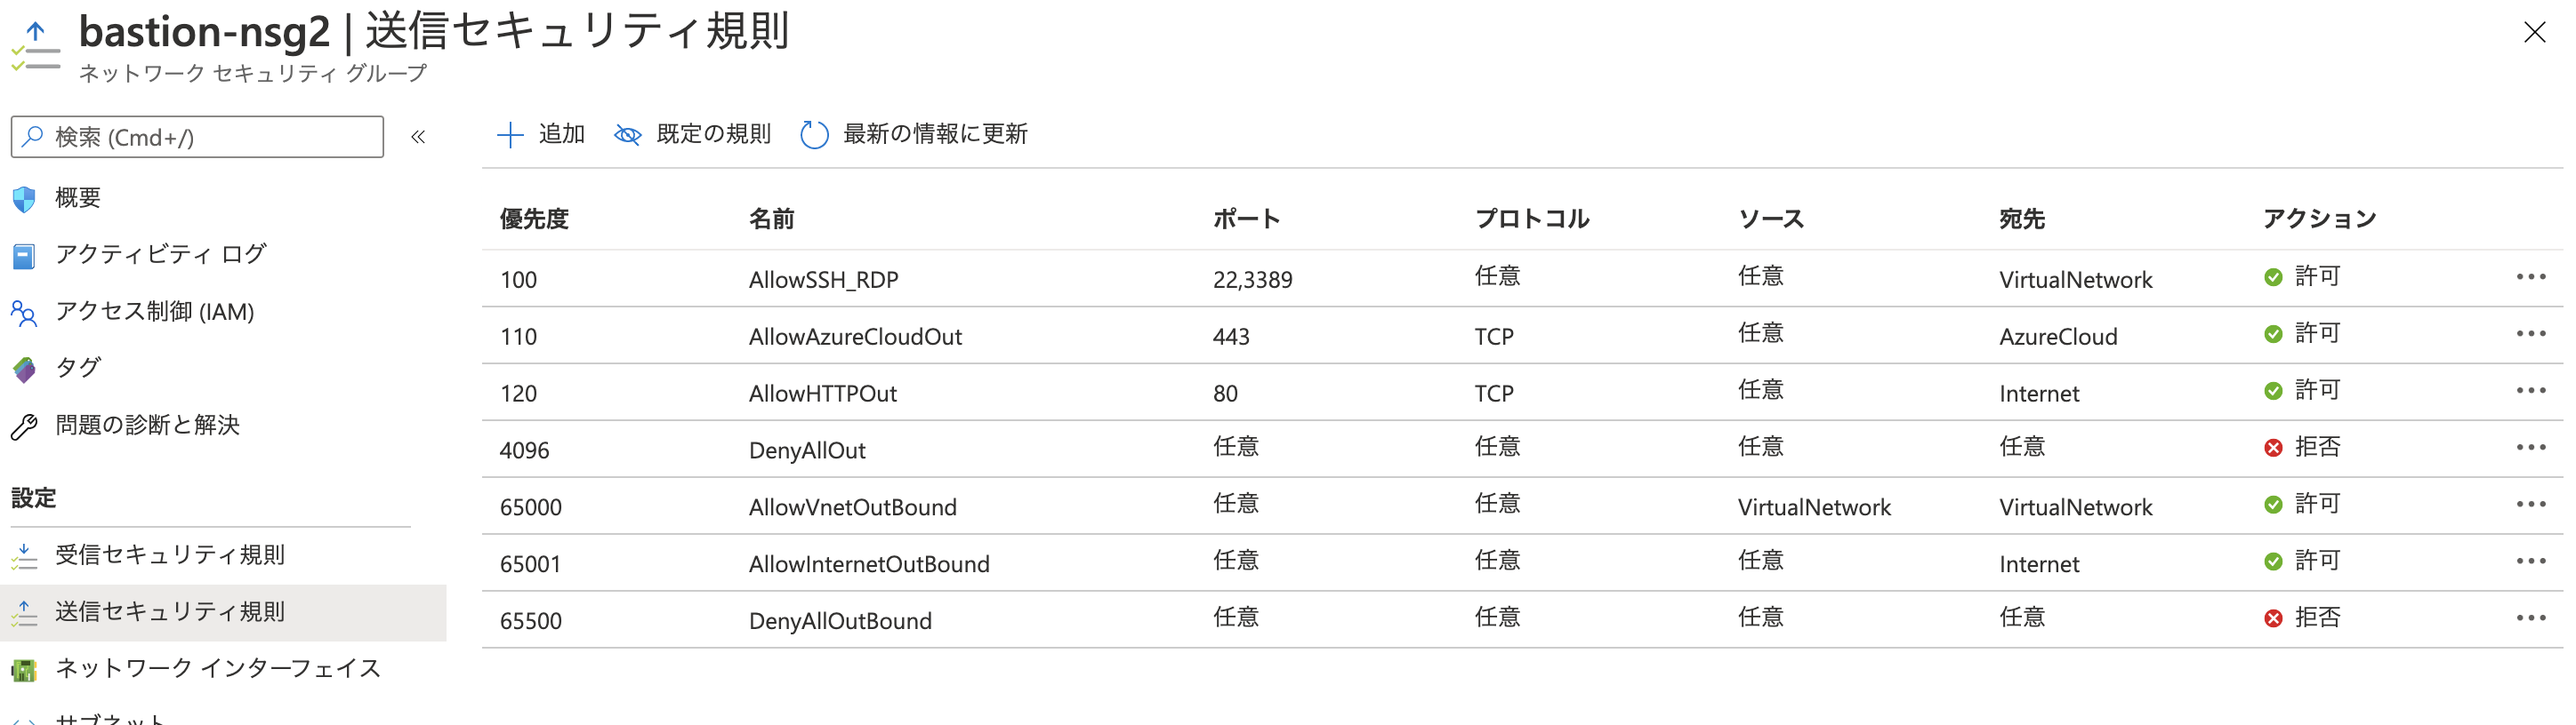
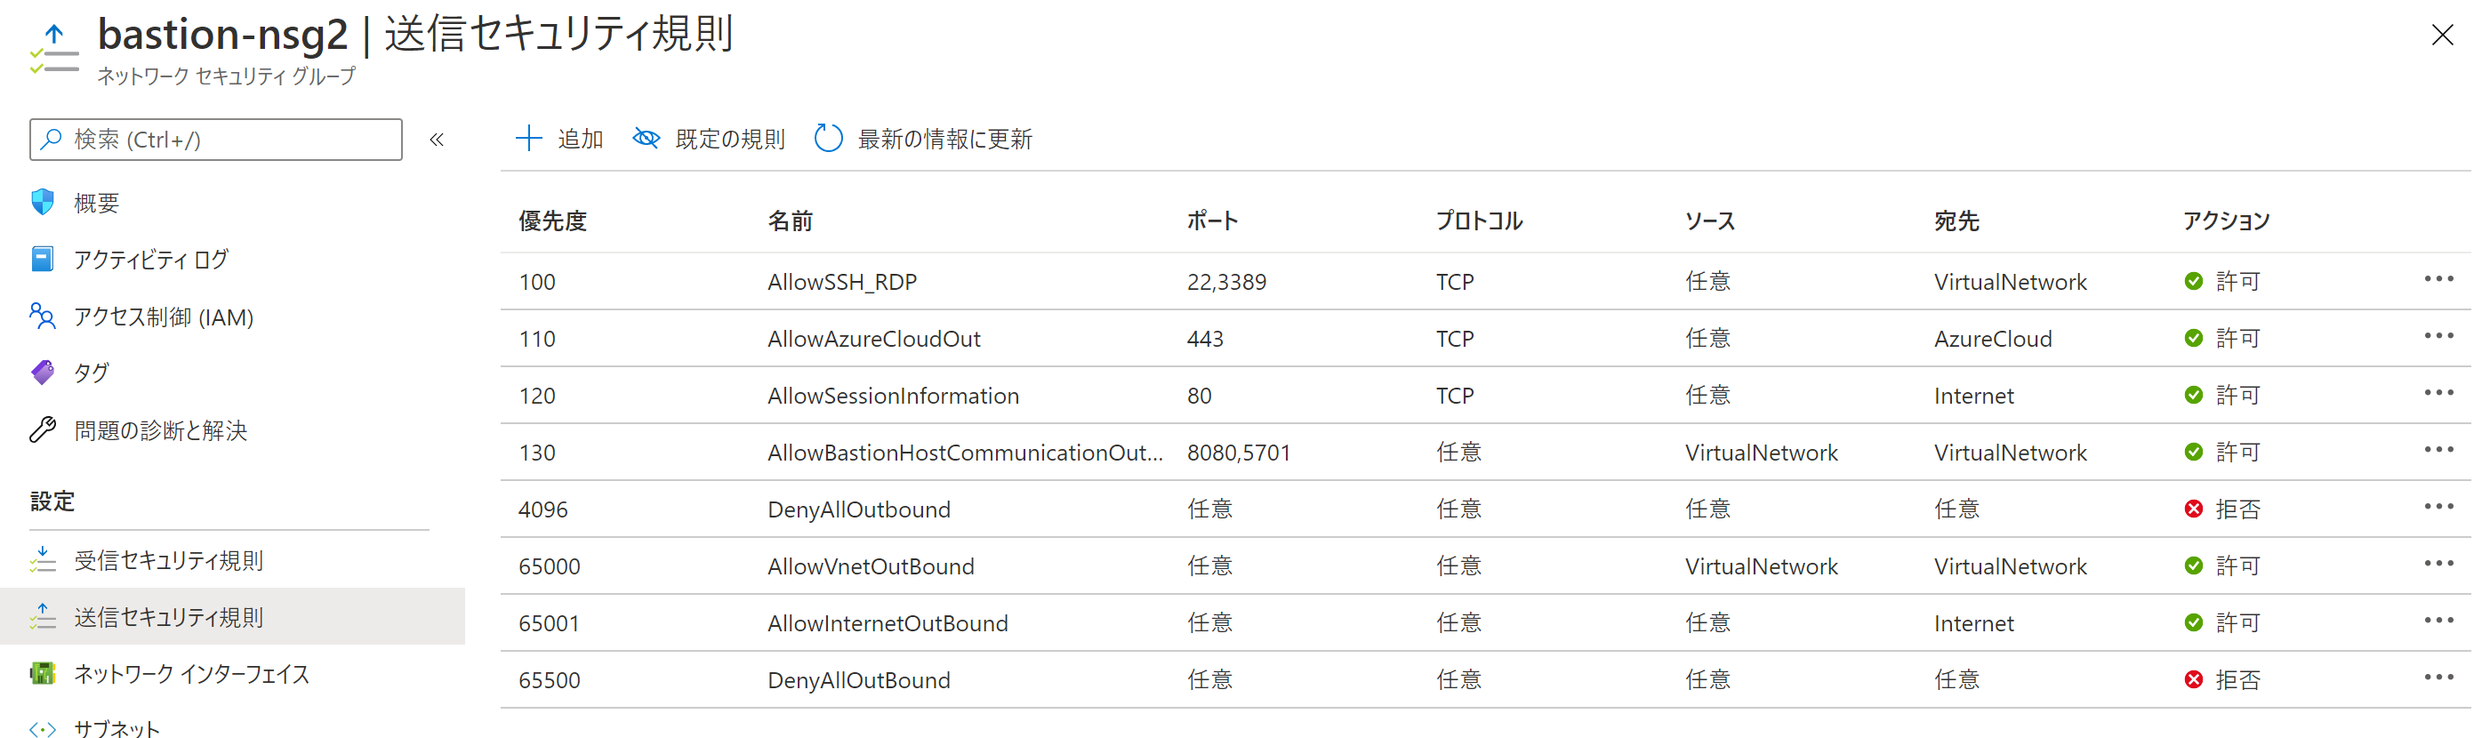
update nsg requirements and images

diff --git a/articles/network/bastion-nsg.md b/articles/network/bastion-nsg.md
@@ -19,8 +19,9 @@ tags:
 以下に掲載しております画像の例では、優先度 120 番にて Bastion にアクセスするクライアントのグローバル IP アドレスのみを許可している例となります。優先度 4096 番に全てを拒否するルールを入れて既定のルールを拒否しています。
 受信セキュリティ規則では以下のルールが必須となります。
 - GatewayManager から任意の宛先への HTTPS（TCP ポート 443）の許可
-- AzureLoadBalancer から任意の宛先への TCP の許可
-- Bastion に接続するクライアントの IP アドレスから任意の宛先への HTTPS（TCP ポート 443）の許可。
+- AzureLoadBalancer から任意の宛先への HTTPS（TCP ポート 443）の許可
+- Bastion に接続するクライアントの IP アドレスから任意の宛先への HTTPS（TCP ポート 443）の許可
+- VirtualNetwork から VirtualNetwork への任意のプロトコルのポート 8080,5701 の許可
 
 ![受信セキュリティ規則の設定例](./bastion-nsg/bastion_nsg_in.png)
 
@@ -30,6 +31,7 @@ tags:
 - 任意の送信元から VirtualNetwork への SSH と RDP (TCP ポート 22 と TCP ポート 3389) の許可。どちらか一方のプロトコルしか使わないような場合でも両方必要となります。
 - 任意の送信元から AzureCloud への HTTPS（TCP ポート 443）の許可
 - 任意の送信元から Internet への HTTP (TCP ポート 80) の許可。Bastion のセッション情報の管理に使用されます。
+- VirtualNetwork から VirtualNetwork への任意のプロトコルのポート 8080,5701 の許可
 
 ![送信セキュリティ規則の設定例](./bastion-nsg/bastion_nsg_out.png)
 
